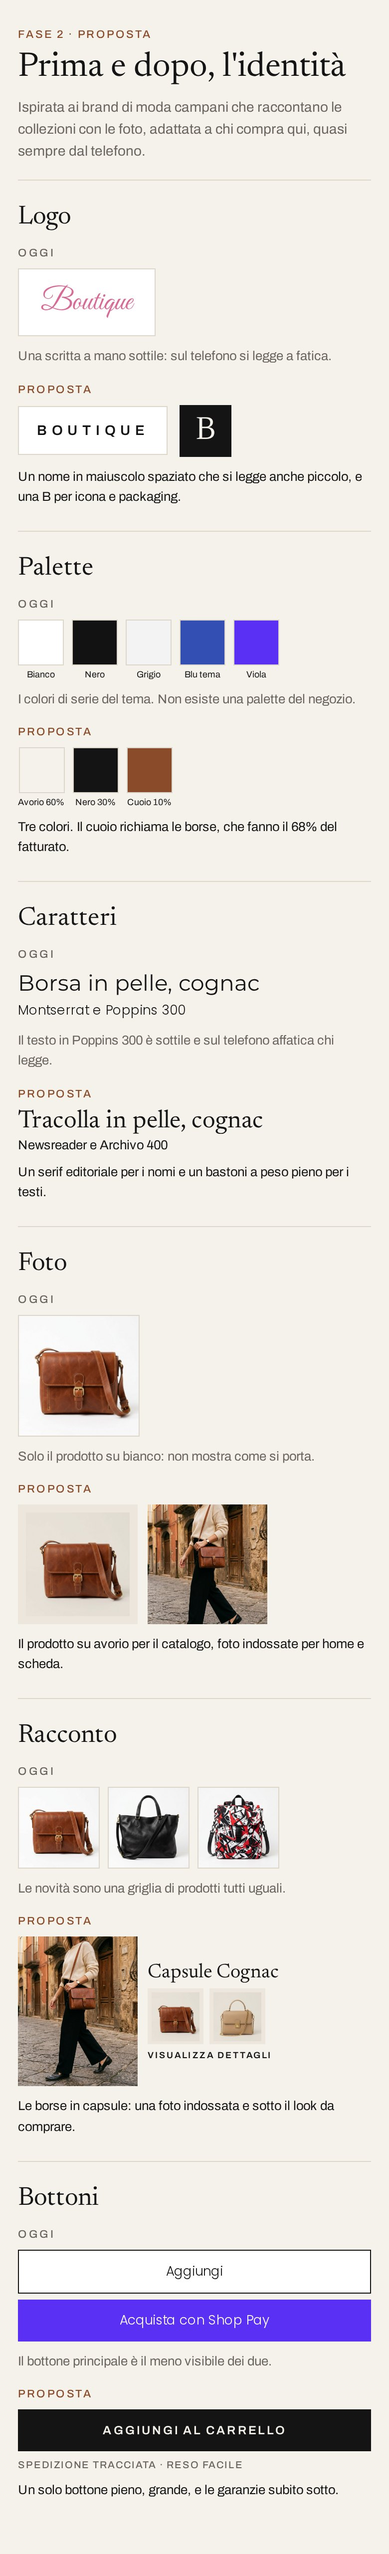
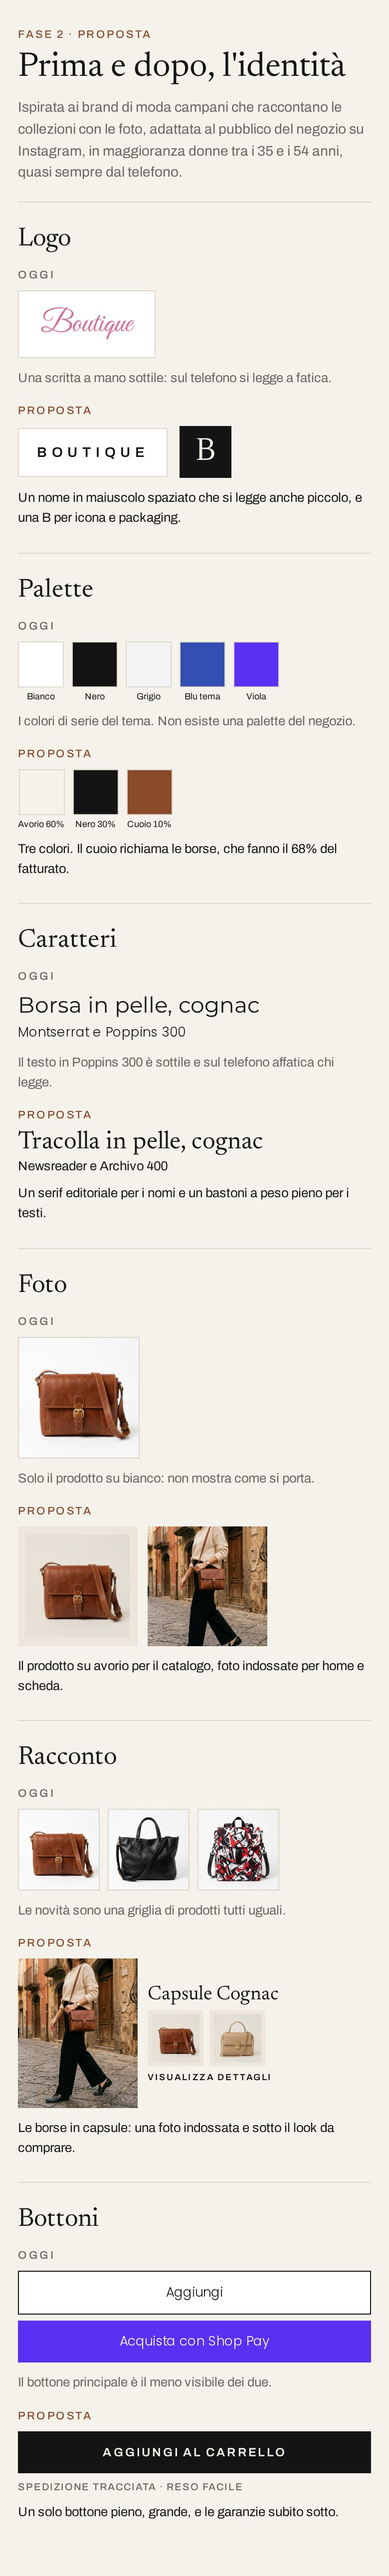
content(caso-reale): la Fase 2 parla del pubblico su Instagram, non di chi compra
La fascia 35-54 viene dai follower Instagram del negozio, non da clienti
verificate. Riga della Fase 2 e immagini dell'identità (larga e mobile)
allineate.

diff --git a/docs/STATO.md b/docs/STATO.md
@@ -110,8 +110,11 @@
   - **Testi.** Nessun numero fuori da `docs/content/caso-reale.md`: niente prezzi, codici colore
     o date degli screenshot negli alt. La fascia 35-54 anni della Fase 2 è stata aggiunta al
     documento, dalla skill `sisters-store-brand`: sono le statistiche Instagram del negozio
-    (follower, non clienti verificate), e la pagina lo dice ("secondo le statistiche Instagram
-    del negozio"). In Decisione "ho lavorato in ordine su tre cose" è diventato "tre priorità in
+    (follower, non clienti verificate). Per questo la Fase 2 non parla più di "chi compra qui"
+    ma del "pubblico del negozio su Instagram, in maggioranza donne tra i 35 e i 54 anni",
+    nella pagina e nelle due immagini dell'identità, larga e mobile (sostituite da Luigi il
+    2026-09-28). Nel resto del sito "chi compra" compare solo in Fornace, dove parla di chi
+    compra ceramica in generale, non di un pubblico misurato. In Decisione "ho lavorato in ordine su tre cose" è diventato "tre priorità in
     ordine", perché Cosa ho fatto e la Fase 1 mostrano che la scheda prodotto non è ancora stata
     rifatta. Le tre priorità seguono l'ordine della "Scelta" del documento.
   - **Versioni mobile (2026-09-28).** `caso-riepilogo` e `caso-fase2-identita` hanno una

diff --git a/src/content/progetti/caso-reale.md b/src/content/progetti/caso-reale.md
@@ -82,7 +82,7 @@ capitoli:
       - titolo: Fase 2, nuova identità
         etichetta: Proposta
         righe:
-          - "Una direzione ispirata ai brand di moda campani e adattata a chi compra qui: secondo le statistiche Instagram del negozio, donne tra i 35 e i 54 anni, quasi sempre dal telefono."
+          - "Una direzione ispirata ai brand di moda campani e adattata al pubblico del negozio su Instagram, in maggioranza donne tra i 35 e i 54 anni, quasi sempre dal telefono."
           - "Avorio, nero e cuoio, un carattere serif per i nomi dei prodotti e le foto delle borse indossate."
         immagini:
           - src: ../../assets/progetti/caso-reale/caso-fase2-identita.jpg
